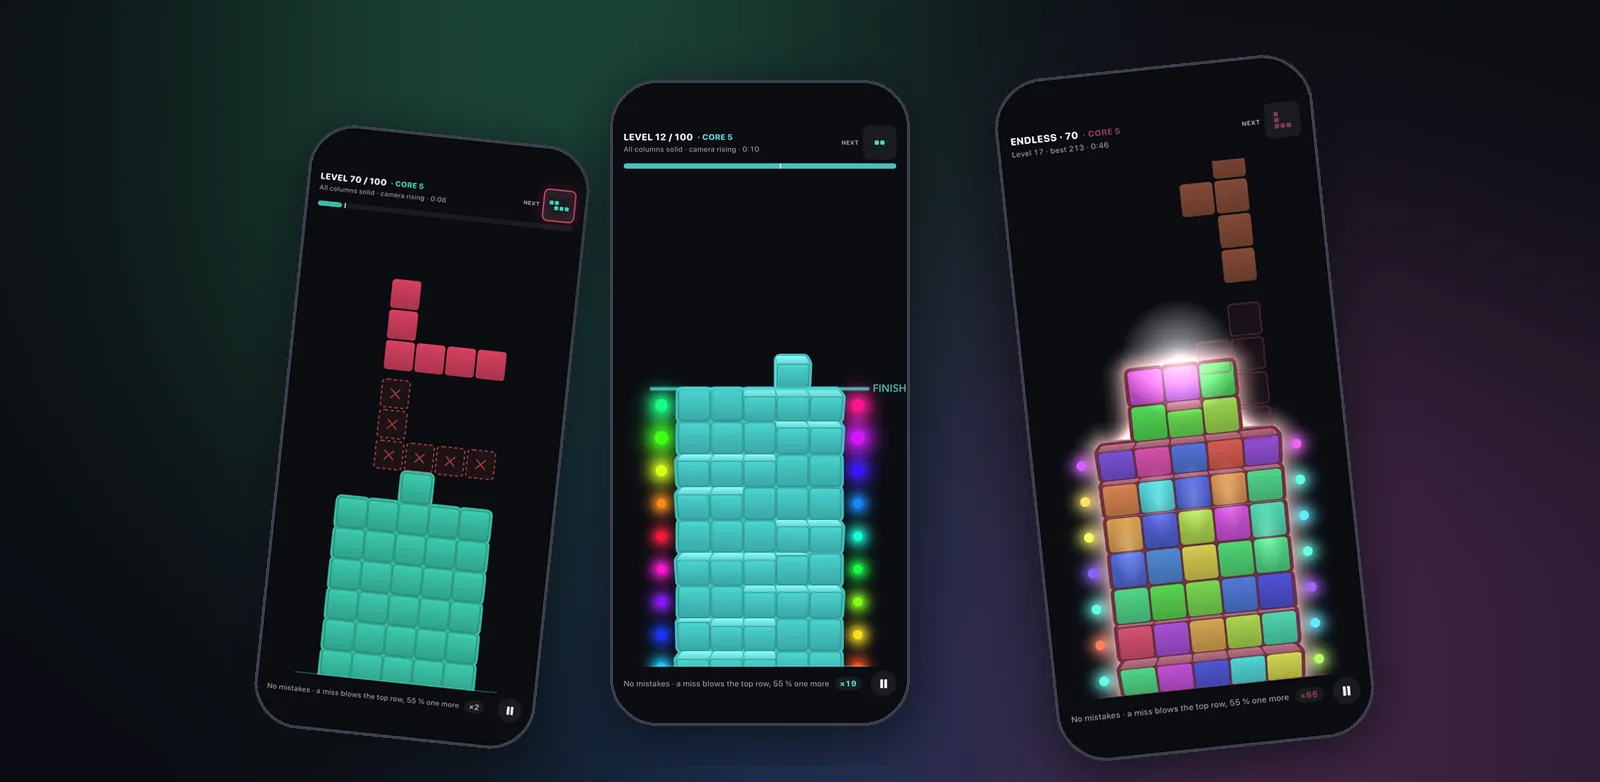
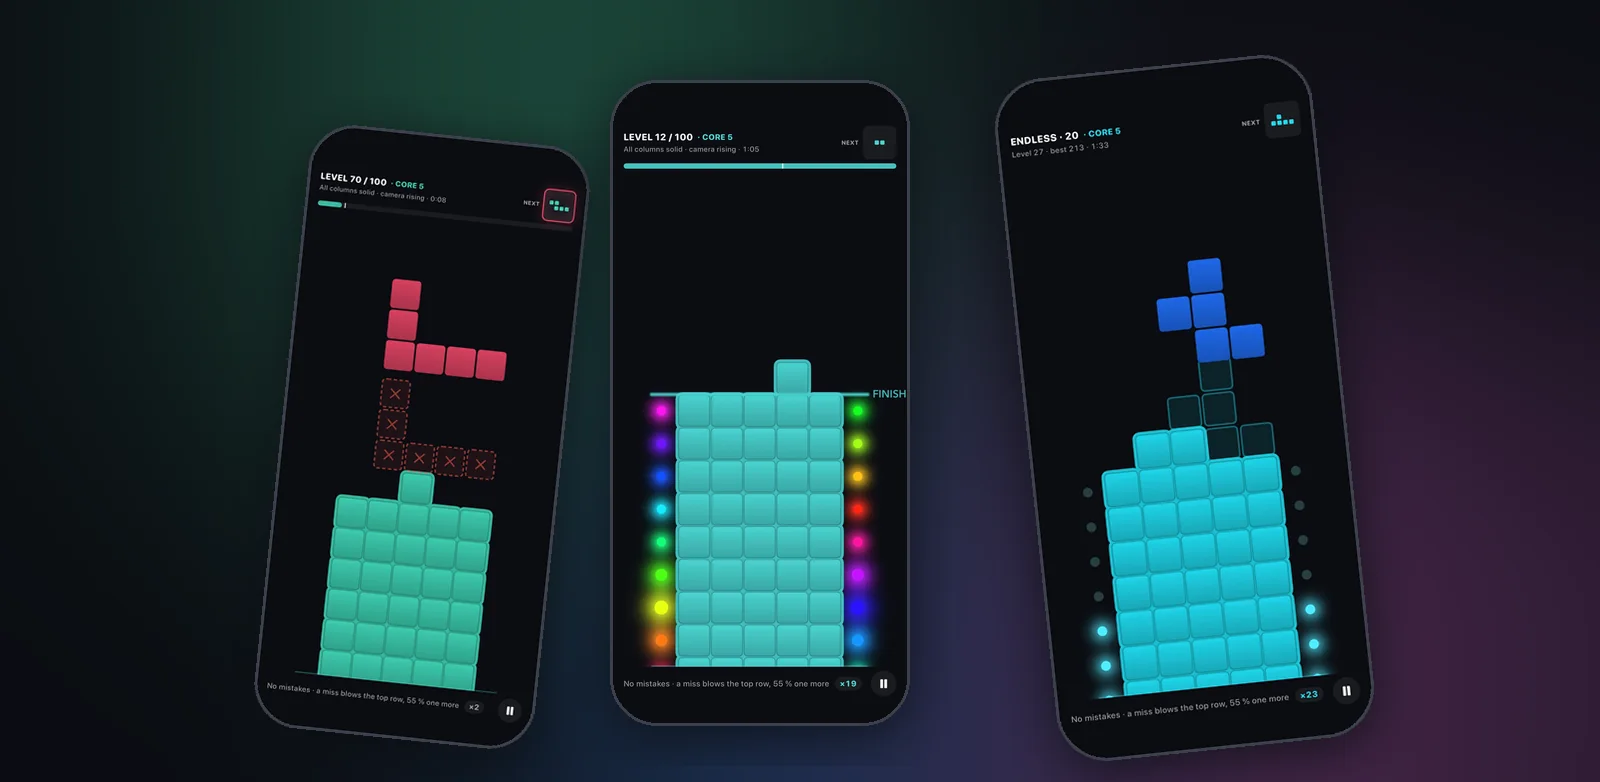
Leave No Gaps screenshots retaken at the natural fall speed: the auto-drop captures had several landing waves in flight at once, so cubes looked tilted at random; the endless, flawless, blast and level-25 frames now show the tower at rest or one clean wave, and the key art is rebuilt from them

diff --git a/leave-no-gaps/index.html b/leave-no-gaps/index.html
@@ -90,7 +90,7 @@
             <div class="brk brk--lng"><span class="b"></span>
               <picture>
                 <source srcset="../assets/img/leave-no-gaps/hero.webp" type="image/webp">
-                <img class="art" src="../assets/img/leave-no-gaps/hero.jpg" alt="Three Leave No Gaps screens: a red piece over a mint tower with its ghost crossed out, a cyan tower at the finish line with rainbow lights up both sides, and a tall many-coloured endless tower glowing at a combo of 84" width="1600" height="782" decoding="async">
+                <img class="art" src="../assets/img/leave-no-gaps/hero.jpg" alt="Three Leave No Gaps screens: a red piece over a mint tower with its ghost crossed out, a cyan tower at the finish line with rainbow lights up both sides, and an endless run with a blue piece falling toward a cyan tower" width="1600" height="782" decoding="async">
               </picture>
             </div>
           </div>
@@ -136,14 +136,14 @@
           <h2 id="lng-shots-heading"><span class="ribbon ribbon--lng"><span class="ribbon-tail ribbon-tail--l"></span><span class="ribbon-tail ribbon-tail--r"></span><span class="ribbon-body">Screenshots</span></span></h2>
         </div>
         <div class="dr-shots ms-shots lng-shots" tabindex="0" role="group" aria-label="Leave No Gaps screenshots, scroll sideways for more">
-          <div class="dr-shot"><div class="brk brk--lng"><span class="b"></span><img class="art" src="../assets/img/leave-no-gaps/shot-01-endless-combo.jpg" alt="Endless mode: a tall tower of many colours glows at a combo of 84, lights lit up both sides" width="860" height="1868" loading="lazy" decoding="async"></div></div>
+          <div class="dr-shot"><div class="brk brk--lng"><span class="b"></span><img class="art" src="../assets/img/leave-no-gaps/shot-01-endless.jpg" alt="Endless mode at level 20: a cyan tower with its bulbs lit, a blue piece falling toward its ghost, 23 in a row" width="860" height="1868" loading="lazy" decoding="async"></div></div>
           <div class="dr-shot"><div class="brk brk--lng"><span class="b"></span><img class="art" src="../assets/img/leave-no-gaps/shot-02-level-25-combo.jpg" alt="Level 25: a green piece falls toward its ghost as the fifth in a row lights the first bulbs beside the tower" width="860" height="1868" loading="lazy" decoding="async"></div></div>
           <div class="dr-shot"><div class="brk brk--lng"><span class="b"></span><img class="art" src="../assets/img/leave-no-gaps/shot-03-flawless-lights.jpg" alt="Level 12 won without a miss: the cyan tower stands full to the finish line while rainbow lights race up both sides" width="860" height="1868" loading="lazy" decoding="async"></div></div>
           <div class="dr-shot"><div class="brk brk--lng"><span class="b"></span><img class="art" src="../assets/img/leave-no-gaps/shot-04-tower-blast.jpg" alt="The win: the whole tower bursts into hundreds of cubes at once" width="860" height="1868" loading="lazy" decoding="async"></div></div>
           <div class="dr-shot"><div class="brk brk--lng"><span class="b"></span><img class="art" src="../assets/img/leave-no-gaps/shot-05-level-70-ghost.jpg" alt="Level 70: a red piece in the air, its ghost drawn with red crosses because this turn would leave a gap" width="860" height="1868" loading="lazy" decoding="async"></div></div>
-          <div class="dr-shot"><div class="brk brk--lng"><span class="b"></span><img class="art" src="../assets/img/leave-no-gaps/shot-06-combo-ten.jpg" alt="Ten in a row on level 25: a light runs around every placed piece and the cubes shimmer through the level's colours" width="860" height="1868" loading="lazy" decoding="async"></div></div>
+          <div class="dr-shot"><div class="brk brk--lng"><span class="b"></span><img class="art" src="../assets/img/leave-no-gaps/shot-06-level-25-ghost.jpg" alt="Level 25 near the finish line: a teal piece in the air and its ghost waiting on the tower, 13 in a row" width="860" height="1868" loading="lazy" decoding="async"></div></div>
           <div class="dr-shot"><div class="brk brk--lng"><span class="b"></span><img class="art" src="../assets/img/leave-no-gaps/shot-07-daily-foresight.jpg" alt="The daily challenge card for Foresight, rated Hard: every piece that fits two ways is a trap, only one way leaves room for NEXT" width="860" height="1868" loading="lazy" decoding="async"></div></div>
-          <div class="dr-shot"><div class="brk brk--lng"><span class="b"></span><img class="art" src="../assets/img/leave-no-gaps/shot-08-endless-121.jpg" alt="Endless mode at level 101, a combo of 121, the tower built from cubes of every colour it has passed through" width="860" height="1868" loading="lazy" decoding="async"></div></div>
+          <div class="dr-shot"><div class="brk brk--lng"><span class="b"></span><img class="art" src="../assets/img/leave-no-gaps/shot-08-endless-violet.jpg" alt="Endless mode at level 25: the tower has faded to violet, the next shape waits top right" width="860" height="1868" loading="lazy" decoding="async"></div></div>
           <div class="dr-shot"><div class="brk brk--lng"><span class="b"></span><img class="art" src="../assets/img/leave-no-gaps/shot-09-levels.jpg" alt="The level grid: levels 16 to 34 cleared with their best times, stars on the perfect ones, level 35 next" width="860" height="1868" loading="lazy" decoding="async"></div></div>
           <div class="dr-shot"><div class="brk brk--lng"><span class="b"></span><img class="art" src="../assets/img/leave-no-gaps/shot-10-title.jpg" alt="The title screen: Leave No Gaps, Continue at level 35, Endless with a best of 213 rows, and the day's challenge, Racing Twins, rated Hard" width="860" height="1868" loading="lazy" decoding="async"></div></div>
         </div>

diff --git a/games.html b/games.html
@@ -135,7 +135,7 @@
                   <div class="brk brk--lng"><span class="b"></span>
                     <picture>
                       <source srcset="assets/img/leave-no-gaps/thumbnail.webp" type="image/webp">
-                      <img class="art" src="assets/img/leave-no-gaps/thumbnail.jpg" alt="Leave No Gaps key art: the game's wordmark beside three screens, a tower at the finish line lit by rainbow lights and a tall many-coloured endless tower" width="1600" height="782" loading="lazy" decoding="async">
+                      <img class="art" src="assets/img/leave-no-gaps/thumbnail.jpg" alt="Leave No Gaps key art: the game's wordmark beside three screens, a tower at the finish line lit by rainbow lights and an endless run in cyan" width="1600" height="782" loading="lazy" decoding="async">
                     </picture>
                   </div>
                 </div>

diff --git a/index.html b/index.html
@@ -181,7 +181,7 @@
             <div class="brk brk--lng"><span class="b"></span>
               <picture>
                 <source srcset="assets/img/leave-no-gaps/hero.webp" type="image/webp">
-                <img class="art" src="assets/img/leave-no-gaps/hero.jpg" alt="Three Leave No Gaps screens: a red piece over a mint tower, a cyan tower at the finish line with rainbow lights, and a tall many-coloured endless tower" width="1600" height="782" loading="lazy" decoding="async">
+                <img class="art" src="assets/img/leave-no-gaps/hero.jpg" alt="Three Leave No Gaps screens: a red piece over a mint tower, a cyan tower at the finish line with rainbow lights, and an endless run with a blue piece falling toward a cyan tower" width="1600" height="782" loading="lazy" decoding="async">
               </picture>
             </div>
           </div>
